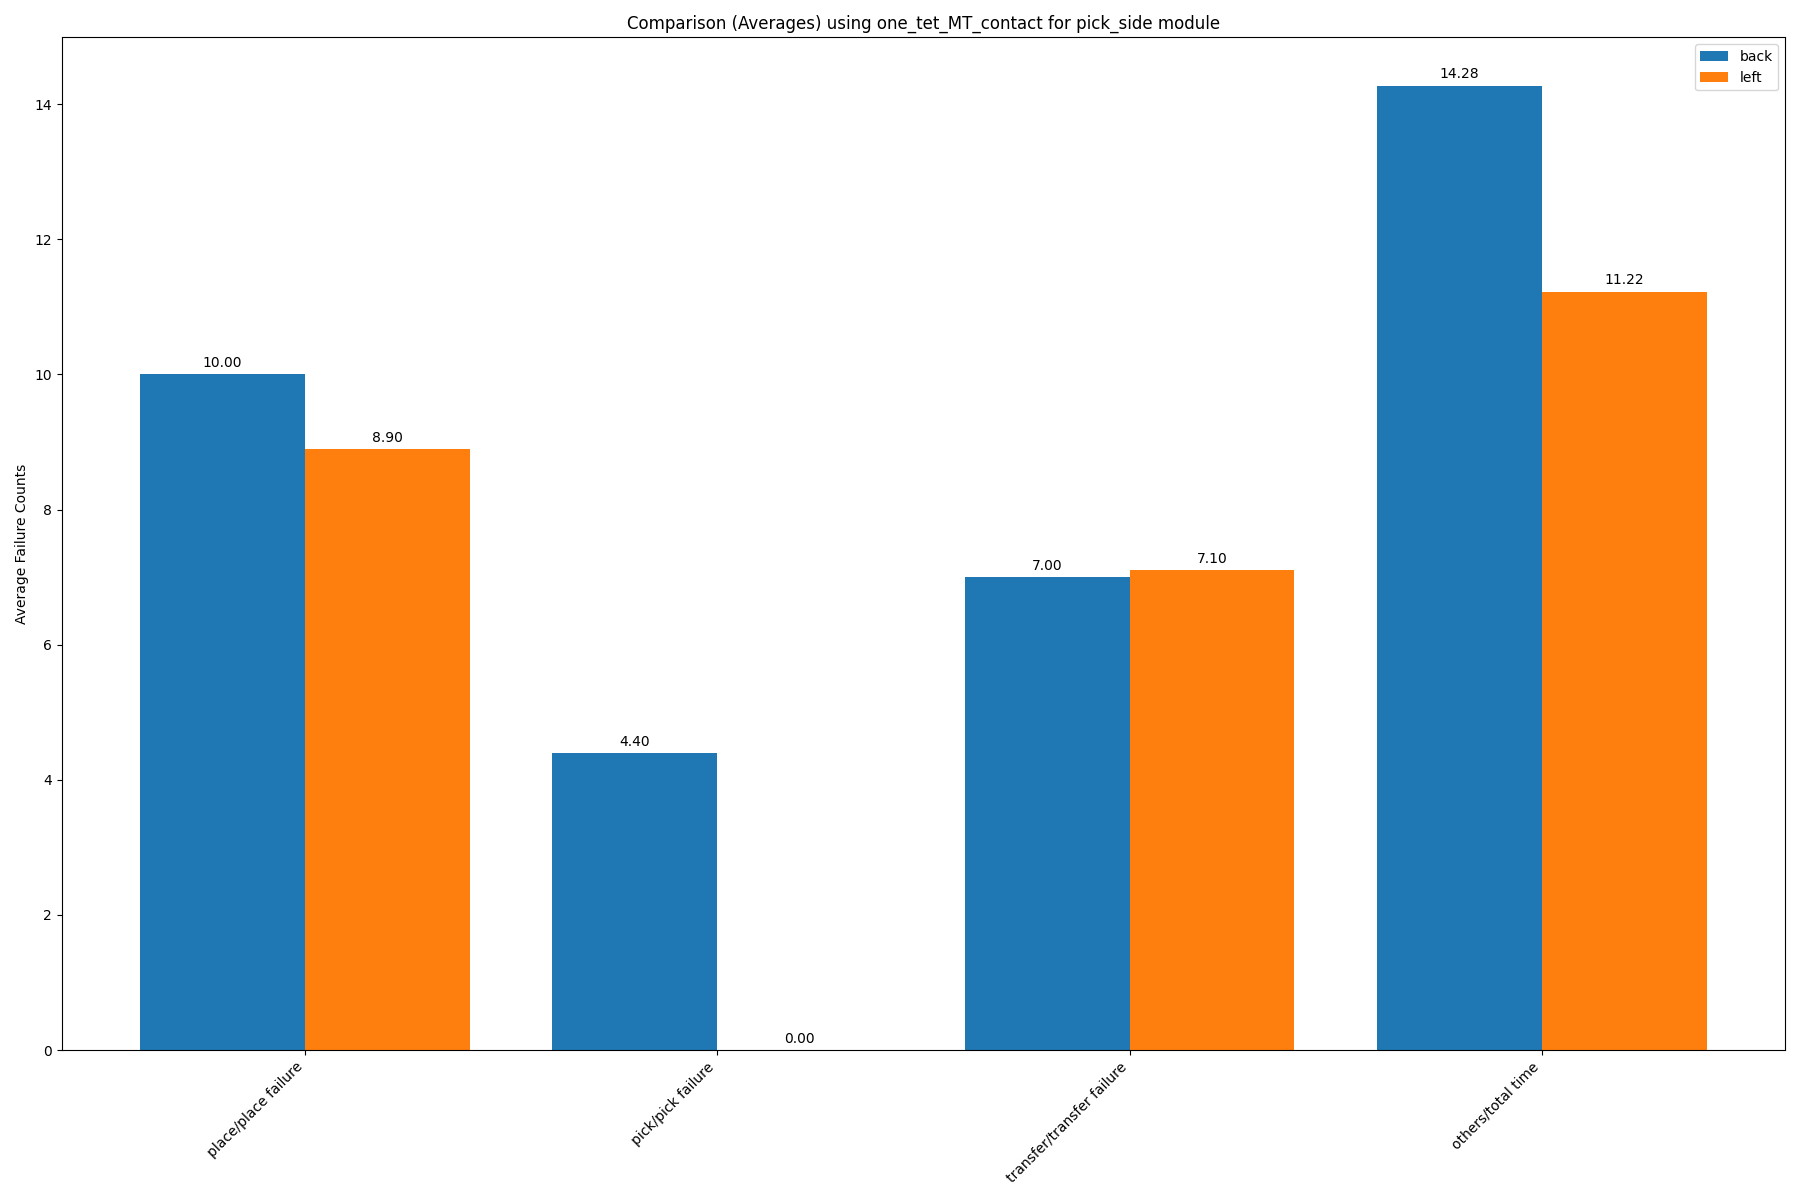
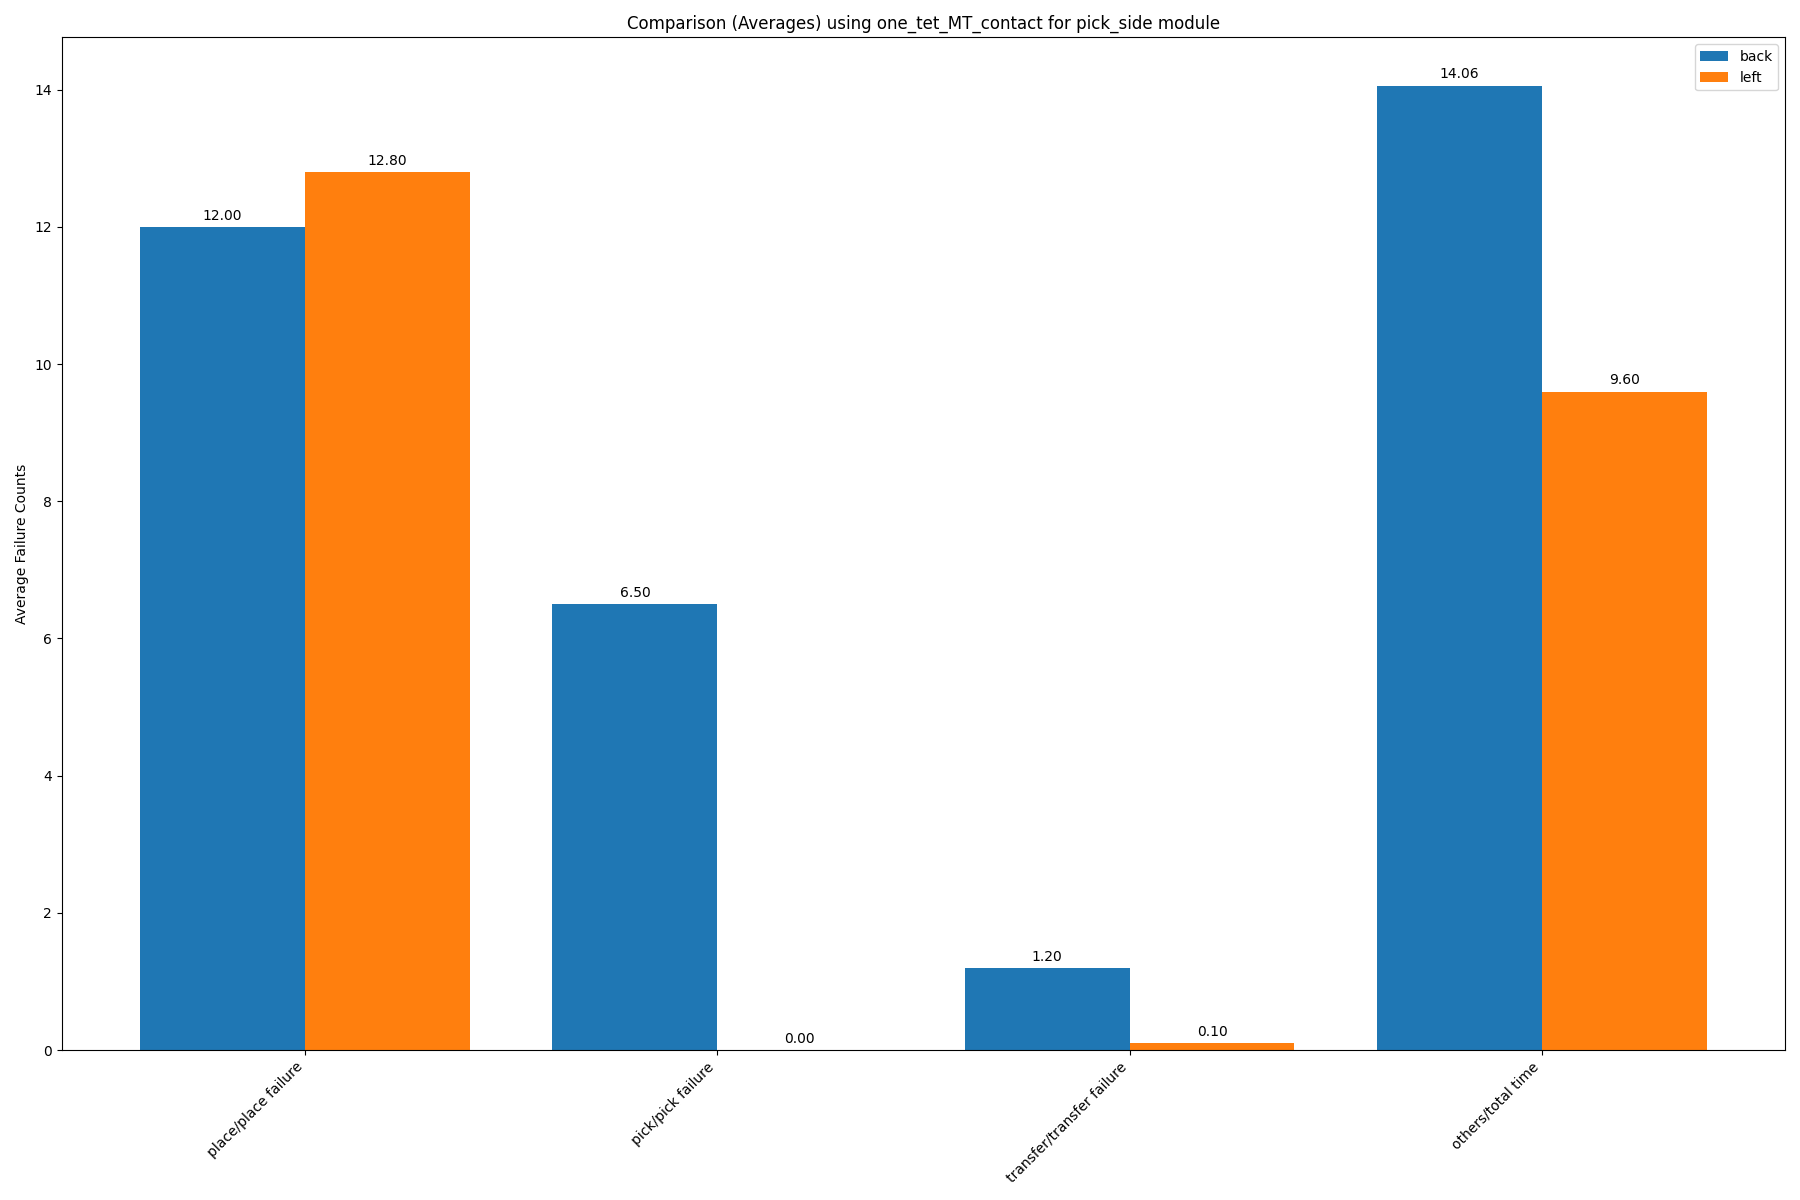
fix collision_fn bug caused by gripper attachment

diff --git a/scripts/symbolic_planner/robot/robot_setup.py b/scripts/symbolic_planner/robot/robot_setup.py
@@ -37,12 +37,12 @@ BASE_CONTROL_JOINT_NAMES = ["x", "y", "theta"]
 INIT_ARM_JOINT_ANGLES = np.array([0, -np.pi / 2, 0, 0, 0, 0])
 
 # on the left side of the robot
-ONBOARD_POSE = [0.0, -0.5, 0.5, -np.pi / 2, 0.0, np.pi / 2]  # [x, y, z, r, p, y]
-ONBOARD_LINK = "ur_arm_base_link"
+# ONBOARD_POSE = [0.0, -0.5, 0.5, -np.pi / 2, 0.0, np.pi / 2]  # [x, y, z, r, p, y]
+# ONBOARD_LINK = "ur_arm_base_link"
 
 # on the back side of the robot
-# ONBOARD_POSE = [0.4, 0.0, 0.5, -np.pi / 2, 0.0, 0.0]  # [x, y, z, r, p, y]
-# ONBOARD_LINK = "ur_arm_base_link"
+ONBOARD_POSE = [0.4, 0.0, 0.5, -np.pi / 2, 0.0, 0.0]  # [x, y, z, r, p, y]
+ONBOARD_LINK = "ur_arm_base_link"
 
 ########################
 
@@ -342,23 +342,24 @@ class RobotSetup(object):
 
         transit_path = None
         with pp.WorldSaver():
-            with pp.LockRenderer(True):
-                # if pp.check_initial_end(start_conf, end_conf, transit_collision_fn, diagnosis=debug):
-                if not transit_collision_fn(end_conf, diagnosis=diagnosis):
-                    transit_path = pp.solve_motion_plan(
-                        start_conf,
-                        end_conf,
-                        distance_fn,
-                        sample_fn,
-                        extend_fn,
-                        transit_collision_fn,
-                        algorithm="birrt",
-                        max_time=20,
-                        max_iterations=30,
-                        smooth=20,
-                        diagnosis=diagnosis,
-                        coarse_waypoints=coarse_waypoints,
-                    )
+            # if pp.check_initial_end(start_conf, end_conf, transit_collision_fn, diagnosis=debug):
+            if not transit_collision_fn(end_conf, diagnosis=True): # TODO fuck
+                transit_path = pp.solve_motion_plan(
+                    start_conf,
+                    end_conf,
+                    distance_fn,
+                    sample_fn,
+                    extend_fn,
+                    transit_collision_fn,
+                    algorithm="birrt",
+                    max_time=20,
+                    max_iterations=30,
+                    smooth=20,
+                    diagnosis=diagnosis,
+                    coarse_waypoints=coarse_waypoints,
+                )
+            else:
+                print("end collision not pass")
 
         if isinstance(transit_path, bool):
             transit_path = None

diff --git a/scripts/symbolic_planner/motion_planner/place.py b/scripts/symbolic_planner/motion_planner/place.py
@@ -223,6 +223,18 @@ def compute_place_path(
     # -------------------- init attachment of current element --------------------#
     grasp_attachment = None
 
+    #-------------------- init extra_disabled_collisions --------------------#
+    extra_disabled_collisions = [
+        (
+            (robot_setup.robot, pp.link_from_name(robot_setup.robot, "ur_arm_wrist_3_link")),
+            (robot_setup.ee_attachment.child, pp.BASE_LINK),
+        ),
+        (
+            (robot_setup.ee_attachment.child, pp.BASE_LINK),
+            (cur_element.body, pp.BASE_LINK),
+        )
+    ]
+
     # -------------------- loop: find a solution of place --------------------#
     for _ in range(max_attempt):
 
@@ -371,9 +383,10 @@ def compute_place_path(
             robot_setup.robot,
             robot_setup.control_joints,
             obstacles=obstacles,
-            attachments=[grasp_attachment] + robot_setup.attachments,
+            attachments=[grasp_attachment, robot_setup.ee_attachment] + robot_setup.attachments,
             self_collisions=ENABLE_SELF_COLLISIONS,
             disabled_collisions=robot_setup.disabled_collisions,
+            extra_disabled_collisions=extra_disabled_collisions,
             max_distance=MAX_DISTANCE,
         )
 
@@ -456,9 +469,10 @@ def compute_place_path(
             robot_setup.robot,
             robot_setup.control_joints,
             obstacles=obstacles | set([cur_element.body]),
-            attachments=robot_setup.attachments,
+            attachments=[robot_setup.ee_attachment] + robot_setup.attachments,
             self_collisions=ENABLE_SELF_COLLISIONS,
             disabled_collisions=robot_setup.disabled_collisions,
+            extra_disabled_collisions=extra_disabled_collisions,
             max_distance=MAX_DISTANCE,
         )
 

diff --git a/scripts/symbolic_planner/motion_planner/pick.py b/scripts/symbolic_planner/motion_planner/pick.py
@@ -97,6 +97,18 @@ def compute_pick_path(
     robot_init_conf = pp.get_joint_positions(robot_setup.robot, robot_setup.control_joints)
     robot_base_conf = robot_init_conf[:3]
 
+    #-------------------- init extra_disabled_collisions --------------------#
+    extra_disabled_collisions = [
+        (
+            (robot_setup.robot, pp.link_from_name(robot_setup.robot, "ur_arm_wrist_3_link")),
+            (robot_setup.ee_attachment.child, pp.BASE_LINK),
+        ),
+        (
+            (robot_setup.ee_attachment.child, pp.BASE_LINK),
+            (cur_element.body, pp.BASE_LINK),
+        )
+    ]
+
     # **************************************************************************
     # pick
     # **************************************************************************
@@ -106,9 +118,10 @@ def compute_pick_path(
         robot_setup.robot,
         robot_setup.control_joints,
         obstacles=obstacles | set([cur_element.body]),
-        attachments=robot_setup.attachments,
+        attachments=[robot_setup.ee_attachment] + robot_setup.attachments,
         self_collisions=ENABLE_SELF_COLLISIONS,
         disabled_collisions=robot_setup.disabled_collisions,
+        extra_disabled_collisions=extra_disabled_collisions,
         max_distance=MAX_DISTANCE,
     )
 

diff --git a/scripts/symbolic_planner/motion_planner/transfer.py b/scripts/symbolic_planner/motion_planner/transfer.py
@@ -65,12 +65,16 @@ def compute_transfer_path(
             (robot_setup.robot, pp.link_from_name(robot_setup.robot, "ur_arm_wrist_3_link")),
             (robot_setup.ee_attachment.child, pp.BASE_LINK),
         ),
+        (
+            (robot_setup.ee_attachment.child, pp.BASE_LINK),
+            (grasp_attachment.child, pp.BASE_LINK),
+        ),
     ]
     collision_fn = pp.get_collision_fn(
         robot_setup.robot,
         robot_setup.arm_joints,
         obstacles=obstacles,
-        attachments=[robot_setup.ee_attachment, grasp_attachment] + robot_setup.attachments,
+        attachments=[grasp_attachment, robot_setup.ee_attachment] + robot_setup.attachments,
         self_collisions=ENABLE_SELF_COLLISIONS,
         disabled_collisions=robot_setup.disabled_collisions,
         extra_disabled_collisions=extra_disabled_collisions,

diff --git a/scripts/symbolic_planner/robot/robot.py b/scripts/symbolic_planner/robot/robot.py
@@ -20,15 +20,15 @@ ConcretePath = namedtuple("ConcretePath", ["base_path", "manipulator_path"])
 
 PLACE_VERBOSE = False
 PLACE_DIAGNOSIS = False
-PLACE_SHOW = False
+PLACE_SHOW = False or PLACE_DIAGNOSIS
 
 PICK_VERBOSE = False
 PICK_DIAGNOSIS = False
-PICK_SHOW = False
+PICK_SHOW = False or PICK_DIAGNOSIS
 
 TRANSFER_VERBOSE = False
 TRANSFER_DIAGNOSIS = False
-TRANSFER_SHOW = False
+TRANSFER_SHOW = False or TRANSFER_DIAGNOSIS
 
 
 class PathItem(object):